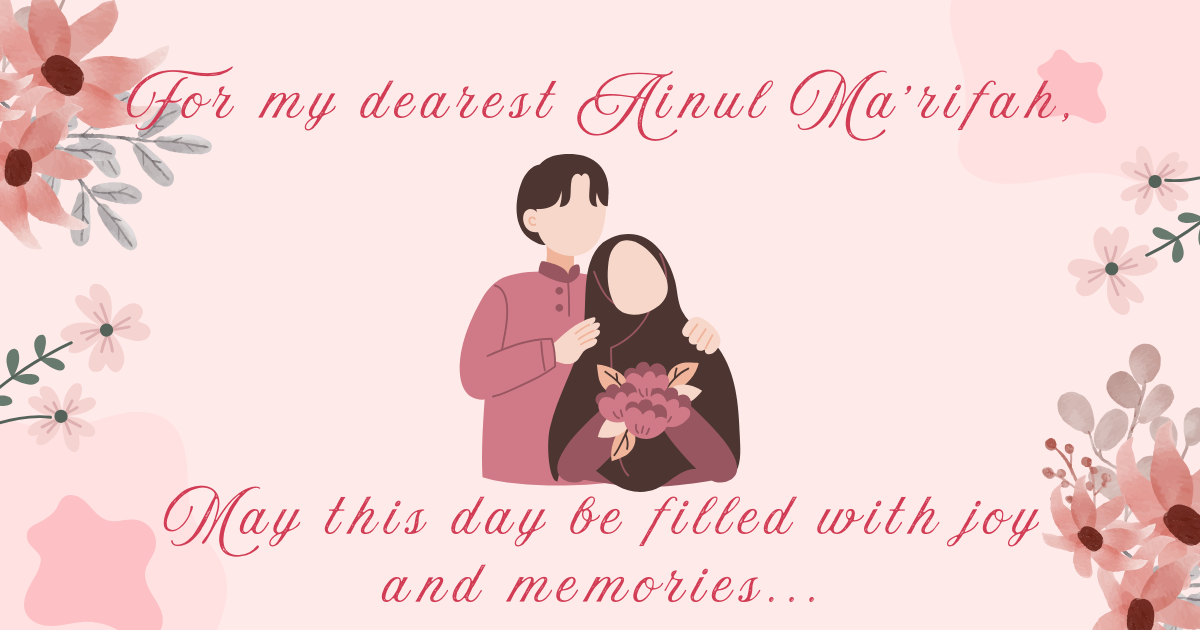
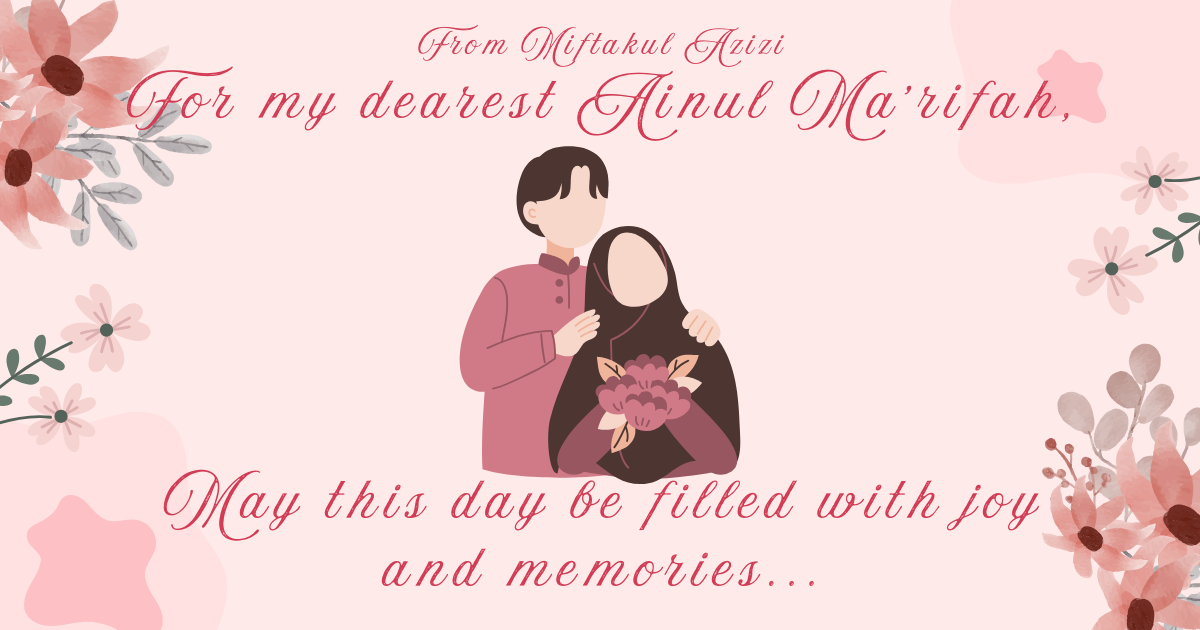
add photos

diff --git a/src/components/FallingPetals.tsx b/src/components/FallingPetals.tsx
@@ -15,6 +15,7 @@ export const FallingPetals: React.FC = () => {
   const canvasRef = useRef<HTMLCanvasElement>(null);
   const petalsRef = useRef<Petal[]>([]);
   const animationRef = useRef<number>(0);
+  const mouseRef = useRef<{ x: number; y: number; isClick: boolean }>({ x: -9999, y: -9999, isClick: false });
 
   useEffect(() => {
     const canvas = canvasRef.current;
@@ -23,15 +24,13 @@ export const FallingPetals: React.FC = () => {
     const ctx = canvas.getContext('2d');
     if (!ctx) return;
 
-    // Set canvas to full screen
     const resizeCanvas = () => {
       canvas.width = window.innerWidth;
       canvas.height = window.innerHeight;
     };
 
-    // Initialize petals
     const initPetals = () => {
-      const petalsCount = Math.max(50, Math.floor(window.innerWidth / 20)); // Responsive count
+      const petalsCount = Math.max(99, Math.floor(window.innerWidth / 20));
       petalsRef.current = [];
 
       for (let i = 0; i < petalsCount; i++) {
@@ -48,16 +47,13 @@ export const FallingPetals: React.FC = () => {
       }
     };
 
-    // Draw a petal
     const drawPetal = (petal: Petal) => {
       if (!ctx) return;
-      
+
       ctx.save();
       ctx.translate(petal.x, petal.y);
       ctx.rotate((petal.rotation * Math.PI) / 180);
       ctx.beginPath();
-      
-      // Petal shape
       ctx.moveTo(0, 0);
       ctx.bezierCurveTo(
         petal.size / 2, -petal.size / 2,
@@ -69,67 +65,86 @@ export const FallingPetals: React.FC = () => {
         petal.size / 2, petal.size / 2,
         0, 0
       );
-      
-      // Gradient for realistic look
       const gradient = ctx.createRadialGradient(
         petal.size / 2, 0, 0,
         petal.size / 2, 0, petal.size
       );
-      
       gradient.addColorStop(0, `rgba(255, 182, 193, ${petal.opacity})`);
       gradient.addColorStop(1, `rgba(255, 192, 203, ${petal.opacity * 0.7})`);
-      
+
       ctx.fillStyle = gradient;
       ctx.fill();
       ctx.restore();
     };
 
-    // Animation loop
     const animate = () => {
       if (!ctx || !canvas) return;
-      
       ctx.clearRect(0, 0, canvas.width, canvas.height);
-      
+
       petalsRef.current.forEach(petal => {
-        // Update position
-        petal.y += petal.ySpeed;
-        petal.x += petal.xSpeed;
-        petal.rotation += petal.rotationSpeed;
-        
-        // Add some wind effect
-        petal.x += Math.sin(Date.now() * 0.001) * 0.5;
-        
-        // Reset if off-screen
+        const dx = petal.x - mouseRef.current.x;
+        const dy = petal.y - mouseRef.current.y;
+        const dist = Math.sqrt(dx * dx + dy * dy);
+
+        if (dist < 80 && !mouseRef.current.isClick) {
+          petal.x += dx / dist * 2;
+          petal.y += dy / dist * 2;
+        } else if (mouseRef.current.isClick) {
+          const targetX = canvas.width / 2;
+          const targetY = canvas.height / 2;
+          petal.x += (targetX - petal.x) * 0.05;
+          petal.y += (targetY - petal.y) * 0.05;
+        } else {
+          petal.y += petal.ySpeed;
+          petal.x += petal.xSpeed;
+          petal.rotation += petal.rotationSpeed;
+          petal.x += Math.sin(Date.now() * 0.001) * 0.5;
+        }
+
         if (petal.y > canvas.height) {
           petal.y = -petal.size;
           petal.x = Math.random() * canvas.width;
         }
-        
+
         if (petal.x < -petal.size) {
           petal.x = canvas.width + petal.size;
         } else if (petal.x > canvas.width + petal.size) {
           petal.x = -petal.size;
         }
-        
+
         drawPetal(petal);
       });
-      
+
       animationRef.current = requestAnimationFrame(animate);
     };
 
-    // Setup
+    const handleMouseMove = (e: MouseEvent) => {
+      mouseRef.current.x = e.clientX;
+      mouseRef.current.y = e.clientY;
+    };
+
+    const handleClick = () => {
+      mouseRef.current.isClick = true;
+      setTimeout(() => {
+        mouseRef.current.isClick = false;
+      }, 1000);
+    };
+
     window.addEventListener('resize', () => {
       resizeCanvas();
       initPetals();
     });
-    
+    window.addEventListener('mousemove', handleMouseMove);
+    window.addEventListener('click', handleClick);
+
     resizeCanvas();
     initPetals();
     animationRef.current = requestAnimationFrame(animate);
 
-    // Cleanup
     return () => {
       window.removeEventListener('resize', resizeCanvas);
+      window.removeEventListener('mousemove', handleMouseMove);
+      window.removeEventListener('click', handleClick);
       cancelAnimationFrame(animationRef.current);
     };
   }, []);
@@ -138,14 +153,7 @@ export const FallingPetals: React.FC = () => {
     <canvas 
       ref={canvasRef}
       className="fixed inset-0 pointer-events-none z-40"
-      style={{ 
-        position: 'fixed', 
-        top: 0, 
-        left: 0, 
-        width: '100%', 
-        height: '100%',
-        pointerEvents: 'none'
-      }}
+      style={{ position: 'fixed', top: 0, left: 0, width: '100%', height: '100%' }}
     />
   );
 };

diff --git a/src/data/images.ts b/src/data/images.ts
@@ -2,38 +2,43 @@ import { ImageData } from '../types';
 
 export const images: ImageData[] = [
   {
-    url: "https://images.pexels.com/photos/1024960/pexels-photo-1024960.jpeg?auto=compress&cs=tinysrgb&w=1600",
-    caption: "Our First Date",
-    date: "April 2023"
+    url: "https://res.cloudinary.com/dntbcmcc3/image/upload/v1748486442/IMG20241231125354_e3nuag.jpg",
+    caption: "Mushola Wisata Pagilaran",
+    date: "31 December 2024"
   },
   {
-    url: "https://images.pexels.com/photos/1415131/pexels-photo-1415131.jpeg?auto=compress&cs=tinysrgb&w=1600",
-    caption: "Summer Adventures",
-    date: "June 2023"
+    url: "https://res.cloudinary.com/dntbcmcc3/image/upload/v1748486477/IMG_20250409_165907_yrevko.jpg",
+    caption: "Pulang Sekolah, Tlahab",
+    date: "9 April 2025"
   },
   {
-    url: "https://images.pexels.com/photos/1723637/pexels-photo-1723637.jpeg?auto=compress&cs=tinysrgb&w=1600",
-    caption: "Romantic Dinner",
-    date: "August 2023"
+    url: "https://res.cloudinary.com/dntbcmcc3/image/upload/v1748495176/2_fctif2.png",
+    caption: "Kebun Teh Wisata Pagilaran",
+    date: "31 Desember 2024"
   },
   {
-    url: "https://images.pexels.com/photos/842958/pexels-photo-842958.jpeg?auto=compress&cs=tinysrgb&w=1600",
-    caption: "Autumn Walks",
+    url: "https://res.cloudinary.com/dntbcmcc3/image/upload/v1748495211/4_fogsgd.png",
+    caption: "Kebun Teh Wisata Pagilaran",
     date: "October 2023"
   },
   {
-    url: "https://images.pexels.com/photos/1480807/pexels-photo-1480807.jpeg?auto=compress&cs=tinysrgb&w=1600",
-    caption: "Winter Wonderland",
-    date: "December 2023"
+    url: "https://res.cloudinary.com/dntbcmcc3/image/upload/v1748495196/3_d9pn6s.png",
+    caption: "Kebun Teh Wisata Pagilaran",
+    date: "31 Desember 2024"
   },
   {
-    url: "https://images.pexels.com/photos/1415226/pexels-photo-1415226.jpeg?auto=compress&cs=tinysrgb&w=1600",
-    caption: "New Year's Celebration",
-    date: "January 2024"
+    url: "https://res.cloudinary.com/dntbcmcc3/image/upload/v1748495869/Untitled_design_tvjbjv.png",
+    caption: ">/////<",
+    date: "Today"
   },
   {
-    url: "https://images.pexels.com/photos/1415131/pexels-photo-1415131.jpeg?auto=compress&cs=tinysrgb&w=1600",
-    caption: "Valentine's Day",
-    date: "February 2024"
+    url: "https://res.cloudinary.com/dntbcmcc3/image/upload/v1748495175/1_ycicmf.png",
+    caption: "Candid Kebun Teh Wisata Pagilaran",
+    date: "31 Desember 2024"
+  },
+  {
+    url: "https://res.cloudinary.com/dntbcmcc3/image/upload/v1748511824/Untitled_design_1_cq4abc.png",
+    caption: "Candid Kebun Teh Wisata Pagilaran",
+    date: "31 Desember 2024"
   }
 ];

diff --git a/src/components/SurpriseButton.tsx b/src/components/SurpriseButton.tsx
@@ -54,14 +54,14 @@ export const SurpriseButton: React.FC = () => {
           <h2 className="text-3xl font-bold mb-6 text-pink-600 handwritten">Ada Sesuatu Yang Spesial Untukmu Saayang</h2>
           
           <p className="text-gray-700 mb-8">
-            I've prepared something special just for you, my love. Are you ready for a surprise?
+            Aku sudah menyiapkan sesuatu yang istimewa untukmu, sayangku. Apakah kamu siap untuk kejutan?
           </p>
           
           <button 
             className="romantic-button group relative inline-flex items-center justify-center"
             onClick={handleSurpriseClick}
           >
-            <span className="mr-2">Click for a Surprise</span> 
+            <span className="mr-2">Klik Akuu 😊</span> 
             <span className="transform group-hover:scale-125 transition-transform">💝</span>
           </button>
         </div>
@@ -77,16 +77,16 @@ export const SurpriseButton: React.FC = () => {
             <h3 className="text-3xl font-bold mb-4 text-pink-600 handwritten">I Love You!</h3>
             
             <p className="text-xl mb-6">
-              One year of loving you has been the most beautiful journey of my life. 
-              You make every day special with your smile, your kindness, and your love.
+              Satu tahun mencintaimu adalah perjalanan terindah dalam hidupku.
+              Kamu membuat setiap hari menjadi istimewa dengan senyummu, kebaikanmu, dan cintamu.
             </p>
             
             <p className="text-xl mb-8">
-              Thank you for being the most amazing partner. Here's to many more 
-              years of love, laughter, and happiness together!
+              Terima kasih telah menjadi bagian dari diriku yang paling mengagumkan.
+              Semoga kita terus bersama selama bertahun-tahun penuh cinta, tawa, dan kebahagiaan.
             </p>
             
-            <div className="text-3xl handwritten font-bold text-pink-500">Forever Yours ❤</div>
+            <div className="text-3xl handwritten font-bold text-pink-500">Saayang Ainul❤</div>
           </div>
         </div>
       </div>

diff --git a/src/App.tsx b/src/App.tsx
@@ -103,6 +103,24 @@ function App() {
       <PhotoSlider images={images} />
       <SurpriseButton />
       <LoveLetter />
+      <footer className="absolute bottom-5 left-10 z-50 opacity-90">
+      <a 
+        href="https://github.com/AHzizi" 
+        className="flex items-center gap-2 text-pink-500 text-2xl font-bold handwritten hover:opacity-100 animate-bounce"
+        target="_blank" 
+        rel="noopener noreferrer"
+      >
+        <svg xmlns="http://www.w3.org/2000/svg" width="40" height="40" viewBox="0,0,256,256">
+          <g fill="#e60076"><g transform="scale(4,4)">
+            <path d="M32,6c-14.359,0 -26,11.641 -26,26c0,12.277 8.512,22.56 19.955,25.286c-0.592,-0.141 -1.179,-0.299 -1.755,-0.479v-5.957c0,0 -0.975,0.325 -2.275,0.325c-3.637,0 -5.148,-3.245 -5.525,-4.875c-0.229,-0.993 -0.827,-1.934 -1.469,-2.509c-0.767,-0.684 -1.126,-0.686 -1.131,-0.92c-0.01,-0.491 0.658,-0.471 0.975,-0.471c1.625,0 2.857,1.729 3.429,2.623c1.417,2.207 2.938,2.577 3.721,2.577c0.975,0 1.817,-0.146 2.397,-0.426c0.268,-1.888 1.108,-3.57 2.478,-4.774c-6.097,-1.219 -10.4,-4.716 -10.4,-10.4c0,-2.928 1.175,-5.619 3.133,-7.792c-0.2,-0.567 -0.533,-1.714 -0.533,-3.583c0,-1.235 0.086,-2.751 0.65,-4.225c0,0 3.708,0.026 7.205,3.338c1.614,-0.47 3.341,-0.738 5.145,-0.738c1.804,0 3.531,0.268 5.145,0.738c3.497,-3.312 7.205,-3.338 7.205,-3.338c0.567,1.474 0.65,2.99 0.65,4.225c0,2.015 -0.268,3.19 -0.432,3.697c1.898,2.153 3.032,4.802 3.032,7.678c0,5.684 -4.303,9.181 -10.4,10.4c1.628,1.43 2.6,3.513 2.6,5.85v8.557c-0.576,0.181 -1.162,0.338 -1.755,0.479c11.443,-2.726 19.955,-13.009 19.955,-25.286c0,-14.359 -11.641,-26 -26,-26z"></path>
+          </g></g>
+        </svg>
+        AHzizi
+      </a>
+    </footer>
+
+
+
     </div>
   );
 }

diff --git a/src/components/HeroSection.tsx b/src/components/HeroSection.tsx
@@ -24,11 +24,11 @@ export const HeroSection: React.FC = () => {
         </h1>
         
         <h2 className={`text-3xl md:text-5xl lg:text-6xl font-bold mb-8 text-pink-600 handwritten ${isVisible ? 'fade-in delay-400' : 'opacity-0'}`}>
-          Ainul Ma'rifah ❤
+          <a href="https://www.instagram.com/ainul_marifah013/" target="_blank" rel="noopener noreferrer">Ainul Ma'rifah ❤</a>
         </h2>
         
         <p className={`text-xl md:text-2xl text-gray-700 italic mb-8 max-w-xl mx-auto ${isVisible ? 'slide-in-up delay-800' : 'opacity-0'}`}>
-          "A year of love, laughter, and beautiful memories together"
+          "Setahun penuh cinta, tawa, dan kenangan indah bersamamu"
         </p>
         
         <div className={`mt-8 flex justify-center ${isVisible ? 'fade-in delay-1000' : 'opacity-0'}`}>
@@ -52,7 +52,7 @@ export const HeroSection: React.FC = () => {
         <div className="text-pink-400 text-4xl">❀</div>
       </div>
       <div className={`absolute top-20 left-10 float delay-400 ${isVisible ? 'fade-in delay-800' : 'opacity-0'}`}>
-        <div className="text-pink-400 text-4xl">❀</div>
+        <div className="text-pink-400 text-xl handwritten"><a href="https://www.instagram.com/miftakulazizi/" target="_blank" rel="noopener noreferrer">Dari Miftakul Azizi</a></div>
       </div>
       
       <div className={`absolute top-1/4 left-1/6 float delay-600 ${isVisible ? 'fade-in delay-600' : 'opacity-0'}`}>

diff --git a/src/components/LoveLetter.tsx b/src/components/LoveLetter.tsx
@@ -85,7 +85,8 @@ Untukmu Selamanya`;
               {/* Tampilkan tanda tangan setelah semua teks selesai diketik */}
               {currentIndex === loveLetterContent.length && (
                 <div className="text-pink-600 text-xl handwritten mt-12 text-right">
-                  Dari Miftakul Azizi
+                  Dari Miftakul Azizi <br />
+                  Orang Ganteng dan Intelek
                 </div>
               )}
             </div>

diff --git a/src/components/PhotoSlider.tsx b/src/components/PhotoSlider.tsx
@@ -38,7 +38,7 @@ export const PhotoSlider: React.FC<PhotoSliderProps> = ({ images }) => {
   const startAutoPlay = () => {
     autoPlayRef.current = setInterval(() => {
       setCurrentIndex((prevIndex) => (prevIndex + 1) % images.length);
-    }, 5000);
+    }, 10000);
   };
 
   const stopAutoPlay = () => {
